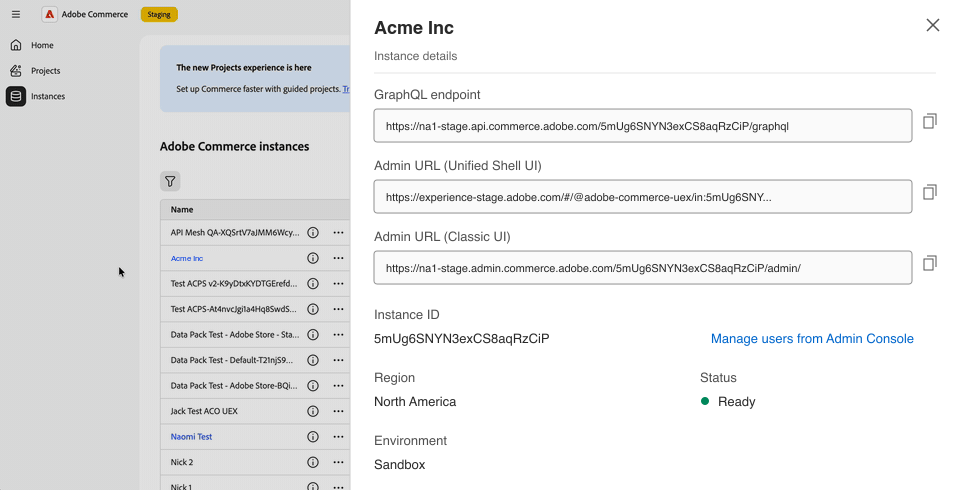
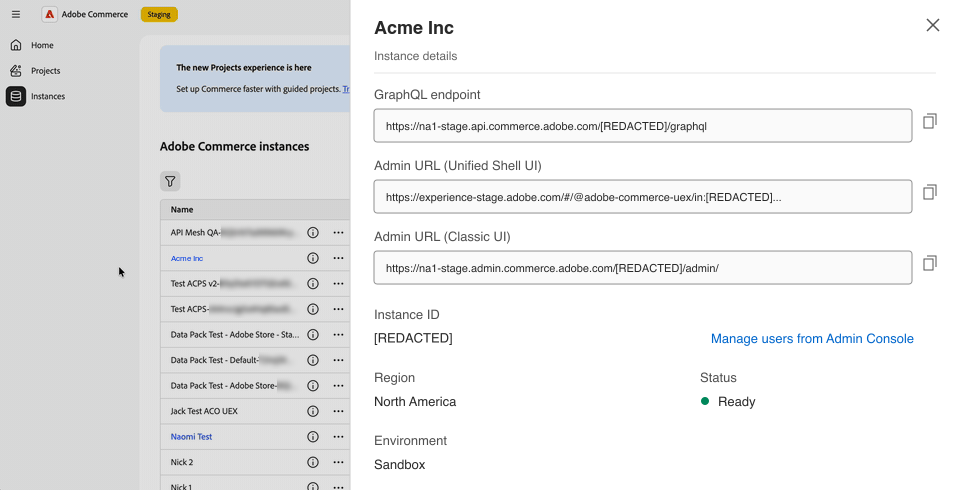
Editorial updates

diff --git a/help/getting-started/admin-unified-experience.md b/help/getting-started/admin-unified-experience.md
@@ -36,40 +36,42 @@ The Commerce Admin for Adobe Commerce as a Cloud Service opens in Adobe Unified 
 
 The Adobe Unified Experience interface provides the shared top navigation used across Adobe products, an updated left navigation, and refreshed Admin page styling.
 
+Adobe Unified Experience is delivered through the Adobe Unified Shell, the shared framework that provides common navigation and hosts Adobe products such as the Commerce Admin. This topic uses _Unified Experience_ for what you see and use. _Unified Shell_ appears only where it is part of a product label, such as **[!UICONTROL Admin URL (Unified Shell UI)]**.
+
 You can switch between organizations, products, and Commerce instances, and access help, notifications, and account preferences from the top navigation. Your existing Commerce role permissions continue to determine which Admin menu items you can access.
 
 >[!NOTE]
 >
->Commerce Admin in Unified Experience (Unified Shell UI) is available only for Adobe Commerce as a Cloud Service. Adobe Commerce on cloud infrastructure and Adobe Commerce on-premises customers continue to use the [classic Commerce Admin UI](admin.md).
+>The Commerce Admin in Adobe Unified Experience is available only for Adobe Commerce as a Cloud Service. Adobe Commerce on cloud infrastructure and Adobe Commerce on-premises customers continue to use the [classic Commerce Admin UI](admin.md).
 
-![Commerce Admin dashboard with Unified Experience top navigation and Commerce left navigation](./assets/admin-unified-experience-overview.png){width="700" zoomable="yes" border="light"}
+![Commerce Admin dashboard with Unified Experience top navigation and Commerce left navigation](./assets/admin-unified-experience-overview.png){width="800" zoomable="yes" border="light"}
 
 ## Open the Commerce Admin
 
-After you sign in to [Adobe Experience Cloud](https://experience.adobe.com/), open Commerce Cloud Manager. Then, select an instance to open the Admin in Unified Experience.
+After you sign in to [Adobe Experience Cloud](https://experience.adobe.com/){target="_blank"}, open Commerce Cloud Manager. Then, select an instance to open the Admin in Unified Experience.
 
 The sign-in flow lets you move between Commerce instances without signing in separately to each instance.
 You can move between Adobe products and Commerce instances without further sign-in prompts.
 
-For the access procedure, see [Access an instance](https://experienceleague.adobe.com/en/docs/commerce/cloud-service/getting-started#access-an-instance) in the _Adobe Commerce as a Cloud Service Guide_.
+For the access procedure, see [Access an instance](https://experienceleague.adobe.com/en/docs/commerce/cloud-service/getting-started#access-an-instance){target="_blank"} in the _Adobe Commerce as a Cloud Service Guide_.
 
 >[!BEGINTABS]
 
 >[!TAB Open the Admin from Commerce Cloud Manager]
 
-![Open the Admin](./assets/admin-uex-seamless-login-cloud-manager-to-instance.png){width="700" zoomable="yes" border="light"}
+![Open the Admin](./assets/admin-uex-seamless-login-cloud-manager-to-instance.png){width="800" zoomable="yes" border="light"}
 
 >[!TAB See it in action]
 
-![Open the Admin from Commerce Cloud Manager](./assets/admin-uex-seamless-login-cloud-manager-to-instance.gif){width="700" zoomable="yes" border="light"}
+![Open the Admin from Commerce Cloud Manager](./assets/admin-uex-seamless-login-cloud-manager-to-instance.gif){width="800" zoomable="yes" border="light"}
 
 >[!ENDTABS]
 
 ### Choose an Admin interface {#classic-ui}
 
-For the initial release of the Commerce Admin in Unified Experience, Adobe Commerce as a Cloud Service supports two Commerce Admin experiences, the Unified Experience (Unified Shell UI) and the Classic UI interface.
+For the initial release of the Commerce Admin in Unified Experience, Adobe Commerce as a Cloud Service supports two Commerce Admin experiences, Adobe Unified Experience and the Classic UI.
 
-By default, when you select a Commerce instance in Commerce Cloud Manager, the Commerce Admin opens in the Unified Experience (Unified Shell UI). To switch back to the Classic UI, use an existing bookmark or find the URL for the Classic UI. See [Open Classic UI](#open-classic-ui).
+By default, when you select a Commerce instance in Commerce Cloud Manager, the Commerce Admin opens in Adobe Unified Experience. To switch back to the Classic UI, use an existing bookmark or find the URL for the Classic UI. See [Open Classic UI](#open-classic-ui).
 
 The links for the Unified Experience and Classic UI are available in the instance details panel in Commerce Cloud Manager.
 
@@ -78,7 +80,7 @@ The links for the Unified Experience and Classic UI are available in the instanc
 | **[!UICONTROL Admin URL (Unified Shell UI)]** | Opens the Admin in Unified Experience. |
 | **[!UICONTROL Admin URL (Classic UI)]** | Opens the previous Admin interface. |
 
-![Illustration of Commerce Cloud Manager instance details showing the Unified Shell UI and Classic UI Admin URL choices](./assets/admin-unified-experience-cloud-manager-instance-details.png){width="960" zoomable="yes" border="light"}
+![Illustration of Commerce Cloud Manager instance details showing the Admin URL (Unified Shell UI) and Admin URL (Classic UI) links](./assets/admin-unified-experience-cloud-manager-instance-details.png){width="800" zoomable="yes" border="light"}
 
 _Illustration based on the instance-list screenshot and the updated instance-details design. The URLs shown use staging hosts._
 
@@ -134,17 +136,17 @@ Use the organization switcher in the top navigation to move between the organiza
 
 >[!TAB Organization switcher]
 
-![Organization switcher](./assets/admin-uex-org-switcher.png){width="700" zoomable="yes" border="light"}
+![Organization switcher](./assets/admin-uex-org-switcher.png){width="800" zoomable="yes" border="light"}
 
 >[!TAB See it in action]
 
-![Organization switcher](./assets/admin-uex-org-switcher.gif){width="700" zoomable="yes" border="light"}
+![Organization switcher](./assets/admin-uex-org-switcher.gif){width="800" zoomable="yes" border="light"}
 
 >[!ENDTABS]
 
 The account menu also shows which organization you are working in. Select your profile picture (![Account](./assets/admin-unified-experience-icon-account.png){width="24"}) in the top navigation, and then check the **[!UICONTROL Organization]** line.
 
-![Account menu showing the current organization](./assets/admin-uex-account-menu-organization.png){width="700" zoomable="yes" border="light"}
+![Account menu showing the current organization](./assets/admin-uex-account-menu-organization.png){width="800" zoomable="yes" border="light"}
 
 The instances that you can open belong to the organization that you are working in. To change instances, see [Switch Commerce instances](#switch-commerce-instances).
 
@@ -160,15 +162,15 @@ Use the product switcher (![Product switcher](./assets/admin-unified-experience-
 
 >[!TAB Product switcher menu]
 
-![Product switcher menu](./assets/admin-uex-product-dropdown.png){width="700" zoomable="yes" border="light"}
+![Product switcher menu](./assets/admin-uex-product-dropdown.png){width="800" zoomable="yes" border="light"}
 
 >[!TAB See it in action]
 
-![Product switcher menu](./assets/admin-uex-product-dropdown.gif){width="700" zoomable="yes" border="light"}
+![Product switcher menu](./assets/admin-uex-product-dropdown.gif){width="800" zoomable="yes" border="light"}
 
 >[!ENDTABS]
 
-For Adobe Commerce as a Cloud Service user and role management, see [User management](https://experienceleague.adobe.com/en/docs/commerce/cloud-service/user-management).
+For Adobe Commerce as a Cloud Service user and role management, see [User management](https://experienceleague.adobe.com/en/docs/commerce/cloud-service/user-management){target="_blank"}.
 
 ### Switch Commerce instances
 
@@ -186,7 +188,7 @@ The instance is part of the page URL, so you can bookmark or share a link that o
 
 ## Use the left navigation
 
-The Commerce Admin menu appears in the left navigation of the Adobe Unified Experience shell. Expand or collapse menu sections to find the tools that you need, or type to jump to a menu item.
+The Commerce Admin menu appears in the left navigation of Adobe Unified Experience. Expand or collapse menu sections to find the tools that you need, or type to jump to a menu item.
 
 The menu is specific to the instance that you are working in. When you switch instances, the left navigation updates to match.
 
@@ -198,17 +200,17 @@ Continue to use the Admin Guide for tasks such as managing products, orders, cus
 
 >[!TAB Commerce Admin left navigation]
 
-![Commerce Admin left navigation](./assets/admin-uex-left-navigation.png){width="700" zoomable="yes" border="light"}
+![Commerce Admin left navigation](./assets/admin-uex-left-navigation.png){width="800" zoomable="yes" border="light"}
 
 >[!TAB See it in action]
 
-![Commerce Admin left navigation](./assets/admin-uex-left-navigation.gif){width="700" zoomable="yes" border="light"}
+![Commerce Admin left navigation](./assets/admin-uex-left-navigation.gif){width="800" zoomable="yes" border="light"}
 
 >[!ENDTABS]
 
 ## Get help and provide feedback
 
-To access resources without leaving your Commerce Admin, open the help panel using the help icon (![Help](./assets/admin-unified-experience-icon-help.png){width="24"}) in the top navigation.
+To access resources without leaving your Commerce Admin, open the help panel using the help icon in the top navigation.
 
 - **Help**: Search Adobe Experience League for documentation directly from the panel.
 - **Support**: Access community forums and other learning resources, and find your support tickets on Adobe Experience League.
@@ -220,11 +222,11 @@ Help, support, and feedback are available in context. You stay in your Commerce 
 
 >[!TAB Help panel]
 
-![Help panel](./assets/admin-uex-help-search.png){width="700" zoomable="yes" border="light"}
+![Help panel](./assets/admin-uex-help-search.png){width="800" zoomable="yes" border="light"}
 
 >[!TAB See it in action]
 
-![Help panel](./assets/admin-uex-help-search.gif){width="700" zoomable="yes" border="light"}
+![Help panel](./assets/admin-uex-help-search.gif){width="800" zoomable="yes" border="light"}
 
 >[!ENDTABS]
 
@@ -240,11 +242,11 @@ Use the bell icon in the Unified Experience top navigation for this panel, rathe
 
 >[!TAB Notifications panel]
 
-![Notifications panel](./assets/admin-uex--notifications-bell.png){width="700" zoomable="yes" border="light"}
+![Notifications panel](./assets/admin-uex--notifications-bell.png){width="800" zoomable="yes" border="light"}
 
 >[!TAB See it in action]
 
-![Notifications panel](./assets/admin-uex--notifications-bell.gif){width="700" zoomable="yes" border="light"}
+![Notifications panel](./assets/admin-uex--notifications-bell.gif){width="800" zoomable="yes" border="light"}
 
 >[!ENDTABS]
 
@@ -260,14 +262,18 @@ Select your profile picture (![Account](./assets/admin-unified-experience-icon-a
 
 >[!TAB Account menu with dark mode]
 
-![Account menu with dark mode](./assets/admin-uex-dark-mode.png){width="700" zoomable="yes" border="light"}
+![Account menu with dark mode](./assets/admin-uex-dark-mode.png){width="800" zoomable="yes" border="light"}
 
 >[!TAB See it in action]
 
-![Account menu with dark mode](./assets/admin-uex-dark-mode.gif){width="700" zoomable="yes" border="light"}
+![Account menu with dark mode](./assets/admin-uex-dark-mode.gif){width="800" zoomable="yes" border="light"}
 
 >[!ENDTABS]
 
 ## Updated page styling
 
-Pages in the Commerce Admin have a refreshed look that matches the Adobe Unified Experience shell. More restyling is planned for later releases.
+Pages in the Commerce Admin have a refreshed look that matches Adobe Unified Experience. More restyling is planned for later releases.
+
+>[!MORELIKETHIS]
+>
+>[Adobe CX Enterprise interface and administration guide](https://experienceleague.adobe.com/en/docs/core-services/interface/experience-cloud)
